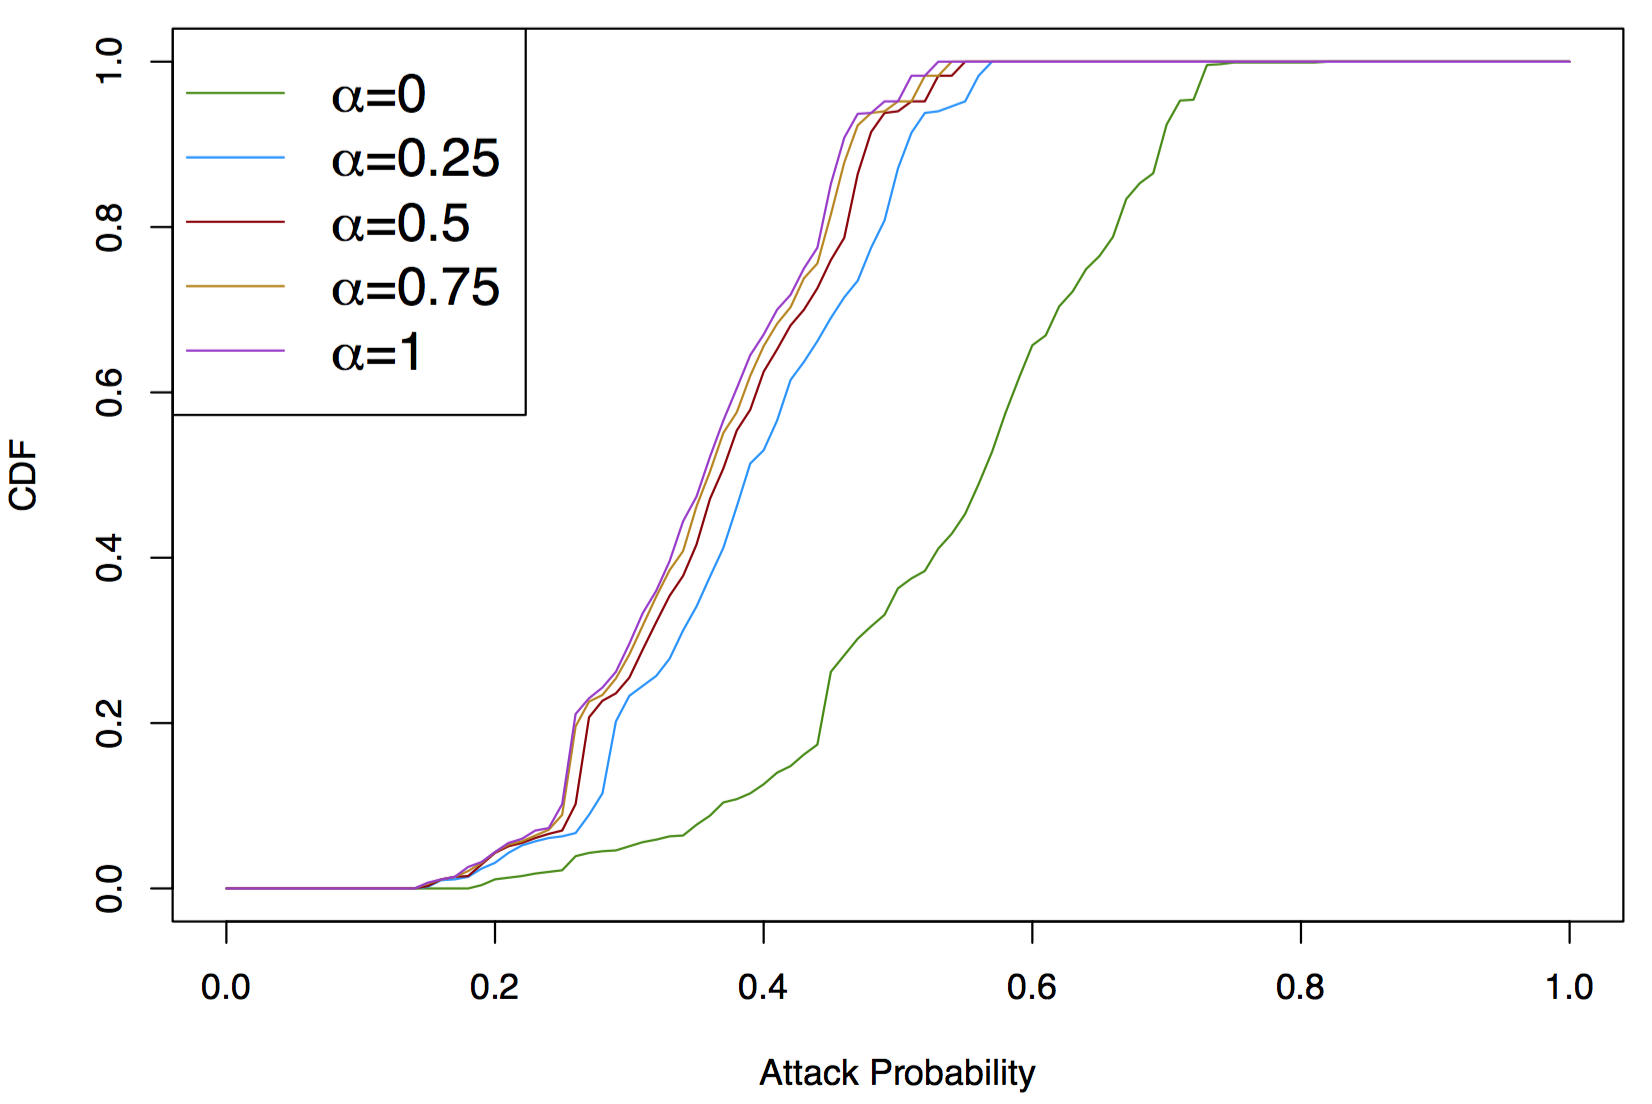
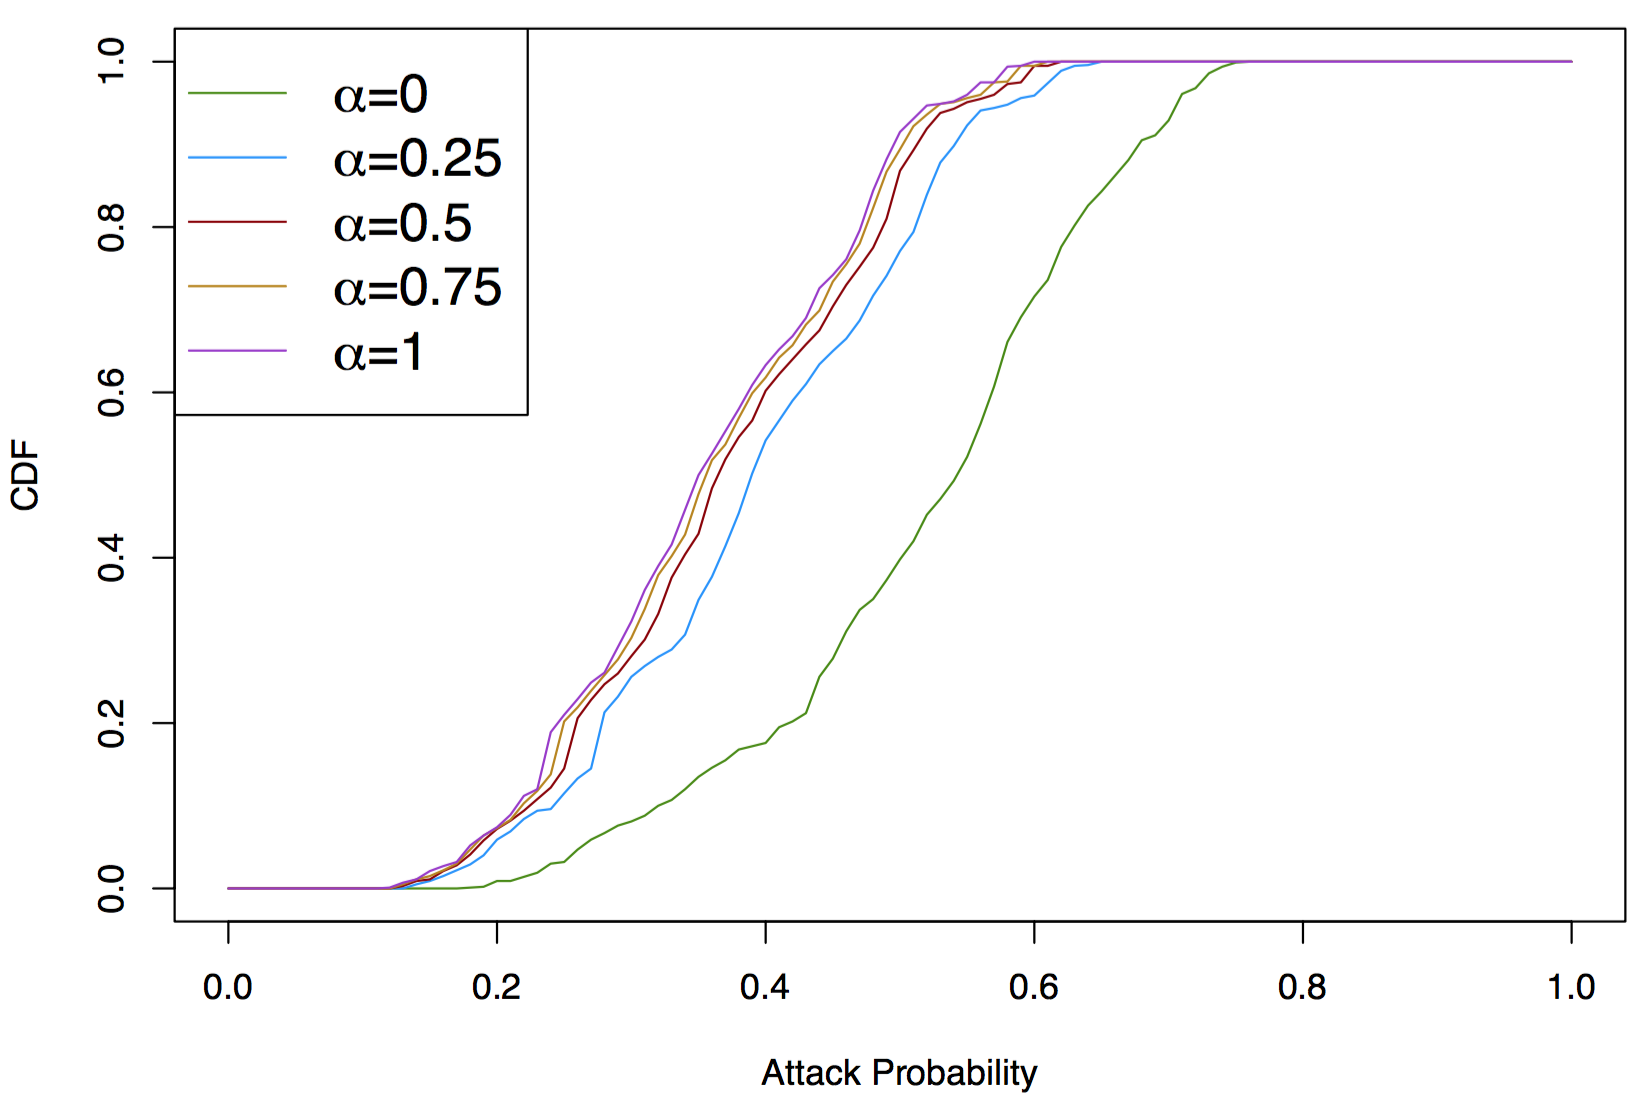
update relay selection

diff --git a/usenix/proactive.tex b/usenix/proactive.tex
@@ -1,5 +1,5 @@
 \section{Proactive Approaches}
-Proactive approaches aim at lowering the possibility of Tor users being affected by an active BGP routing attack on Tor relays. Network-level adversaries can announce a more-specific prefix to hijack the traffic between the client and the Tor guard relay; further more, the adversaries can also announce an equally-specific prefix to achieve the same goal for a portion of Tor clients on the internet. To counter these two attack strategies, we propose two methods, respectively: 1) convincing relay operators to announce the relay in a /24 prefix to defend against a more-specific prefix attack, 2) introducing a new Tor guard relay selection algorithm that minimizes the likelihood that a Tor client sees a hijacked route in the case that her guard is hijacked by an equally-specific prefix attack.
+Proactive approaches aim at lowering the possibility of Tor users being affected by an active BGP routing attack on Tor relays. Network-level adversaries can announce a more-specific prefix or an equally-specific prefix to hijack the traffic between the client and the Tor guard relay. To counter these routing attacks, we propose two methods: 1) convincing relay operators to announce the relay in a /24 prefix to defend against a more-specific prefix attack, 2) introducing a new Tor guard relay selection algorithm that minimizes the likelihood that a Tor client sees a hijacked route in the case of an equally-specific prefix attack.
 
 \subsection{Using /24 Prefixes}
 \label{subsec:24prefix}
@@ -16,14 +16,14 @@ Guard relay is at an important position that it has direct connection with the T
 \subsubsection{Design Goals}
 \begin{enumerate}
 \item \emph{Deal with the possibility of prefix hijacks.} This is the main goal of the new guard relay selection algorithm. The algorithm computes the AS resiliency against prefix hijacks of all Tor guard relays from the client source AS, and prefers the ones that have higher resiliencies, minimizing the likelihood that the client would be affected by a prefix hijack on her guard relay. 
-\item \emph{Protect the anonymity and privacy of Tor clients.} The algorithm should provide a good variance in its probabilities of selecting relays, i.e., avoid favoring certain relays much more than all other ones. Also, the algorithm should not expose the Tor clients to new attacks, such as fingerprinting attacks which might deanonymize the clients by observing their relay selection preferences. 
+\item \emph{Protect the anonymity and privacy of Tor clients.} In addition to lowering possibilities of being hijacked, the algorithm should also protect the anonymity of Tor users, i.e., variance in relay selection preferences and Tor path security. 
 \item \emph{Load balance Tor traffic.} The algorithm should incorporate relay bandwidth into selection decision and avoid causing excessive traffic congestion on low bandwidth relays. 
-\item \emph{Performance overhead.} The algorithm should have a reasonable computation overhead over the vanilla Tor algorithm when bootstrapping, and fast page load time using its constructed circuit of relays. 
+\item \emph{Performance overhead.} The algorithm should have a reasonable performance overhead over the vanilla Tor algorithm when bootstrapping, and fast page load time using its constructed circuit of relays. 
 \end{enumerate}
 
-\subsubsection{Minimize the possibility of being affected by prefix hijacks}
+\subsubsection{Deal with the possibility of prefix hijacks}
 
-Recall from Section ~\ref{hijack_methodology} that we sum up the resiliency from \emph{each} source AS to obtain the total resiliency for the Tor-related ASes. However, from the perspective of a Tor client, the client would only care about the resiliency of a Tor-related AS from where the client is located as the source AS instead of the total resiliency. Thus, we use Algorithm ~\ref{algo:calcres} to calculate resiliency $R(i)$ of each Tor-related AS $i$, from the client AS $t$. 
+In section ~\ref{hijack_methodology}, we measured AS resiliency of each Tor-related ASes based on the metrics proposed by (cite me here). The algorithm computes \emph{total} resiliency of an AS by summing individual resiliencies from each source AS. However, the Tor client would only care about \emph{one} individual resiliency to a Tor-related AS from where the client is located as the source AS. Thus, instead of computing the total resiliency, we use Algorithm ~\ref{algo:calcres} to calculate resiliency $R(i)$ of each Tor-related AS $i$, from the client AS $t$. 
 
 Tor relay selection has been bandwidth-aware and prefers high bandwidth relays. The probability of each relay $i$ being chosen is based on its bandwidth $B(i)$. Thus, in order to still provide clients with the load balancing option of Tor bandwidths, we offer a tunable parameter $\alpha$ in the relay selection algorithm combining AS resiliency $R(i)$ and bandwidth $B(i)$. Each relay $i$ will be assigned a weight as following:
 \begin{equation*}
@@ -31,32 +31,101 @@ W(i) = \alpha \times R(i) + (1 - \alpha) \times B(i)
 \end{equation*}
 Note that, when $\alpha$ is set to $0$, the relay selection becomes the same as bandwidth-only selection; while when $\alpha$ is set to $1$, the selection becomes resiliency-only selection. 
 
-\subsubsection{Protect the anonymity of clients}
+\subsubsection{Randomization is needed}
 
-If we simply select the set of guard relays based on the probability of $relay\_weight/total\_weight$, an adversary can potentially run a relay that is close enough to the Tor client, such that it has high resiliency from the client AS as the source, and thus obtains high probability of being chosen. Further more, the Tor client could also be susceptible to fingerprinting attacks due to the differences in relay selection probabilities based on AS-location of the client. An adversaries that can observe the client for a long enough time may be able to infer the AS-location of the client based on its observed relay selection choices. Thus, we need to take into account these potential vulnerabilities and protect the anonymity of clients. 
+If we simply select the set of guard relays based on the probability of $relay\_weight/total\_weight$, an adversary can potentially run a relay that is close enough to the Tor client, such that it has high resiliency from the client AS as the source, and thus obtains high probability of being chosen. Further more, the Tor client might also be susceptible to fingerprinting attacks due to the differences in relay selection probabilities based on AS-location of the client. An adversaries that can observe the client for a long enough time may be able to infer the AS-location of the client based on its observed relay selection choices. Thus, we need to take into account these potential vulnerabilities and protect the anonymity of clients. Note that, the weight of a Tor relay depends on two factors: (1) resiliency of the AS where relay is located, and (2) relay bandwidth. We would only focus on the AS resiliency part here, since it is specific to the client location whereas relay bandwidth is the same for all clients. 
 
-Instead of selecting relay directly based on its weight, we will first select a cluster of 
+Instead of assigning $R(i)$ to the relay weight  directly, we will first adjust it to $R(i)\prime$ by performing a pseudorandom sampling without replacement using algorithm proposed by Tille (cite here). We compute the inclusion probability of each relay $i$ into a sample of size $(g \cdot total\_TorASes)$ given their unequal probabilities $R(i)/\sum R(i)$, and then divide the inclusion probability by sample size $(g \cdot total\_TorASes)$ to get the probability of being chosen randomly within the sample. So the new resiliency weight becomes:
+
 \begin{equation*}
-m + \alpha \cdot g \cdot (N - m)
+R(i) \prime = \frac {\pi(i | (g \cdot N))} {g \cdot N}
 \end{equation*}
-number of relays, in which $m$ is the minimum number of relays needed (i.e., 1 for single guard and 3 for multiple guards), $N$ is the total number of relays and $g$ is a configurable parameter indicating the maximum percentage of additional relays we want to pick into the cluster. Then, we will pick the guard relay(s) at random from the cluster. Note that when $g$ is set to $0$, then no additional randomization will be performed, while if $g$ is set to $1$, all guard relays will be picked randomly regardless of bandwidth or resiliency. We will evaluate how different values of $g$ may impact the security and anonymity.
+
+in which $\pi(i | m)$ represents inclusion probability of relay $i$ given sample size $m$, and $N$ is the total number of ASes that Tor relays reside in. $g$ is a configurable parameter indicating the percentage of random sampling we want to perform in the Tor-related AS set. Note that when $g$ is set to $0$, then no random sampling will be performed, while if $g$ is set to $1$, then all relays will have the same $R(i)\prime$ into their weights.
+
+%Instead of selecting relay directly based on its weight, we will first select a cluster of 
+%\begin{equation*}
+%m + \alpha \cdot g \cdot (N - m)
+%\end{equation*}
+%number of relays, in which $m$ is the minimum number of relays needed (i.e., 1 for single guard and 3 for multiple guards), $N$ is the total number of relays and $g$ is a configurable parameter indicating the maximum percentage of additional relays we want to pick into the cluster. Then, we will pick the guard relay(s) at random from the cluster. Note that when $g$ is set to $0$, then no additional randomization will be performed, while if $g$ is set to $1$, all guard relays will be picked randomly regardless of bandwidth or resiliency. We will evaluate how different values of $g$ may impact the security and anonymity.
 
 \subsubsection{Implementation on Tor}
-Mapping the IP addresses of the Tor client and Tor relays to ASN would be necessary before we can compute AS resiliency. In order to preserve the anonymity of the Tor client and not reveal its location to outside servers or anyone who can observe the its communications, the client will perform the IP to ASN mapping locally by utilizing the Maxmind ASN database (citation here). Note that the vanilla Tor client also uses the Maxmind GeoIP database for IP to Country mapping. In addition, the client will use the AS topology database from CAIDA (citation here) for AS-level path inference in the resiliency calculation. 
+Mapping the IP addresses of the Tor client and Tor relays to ASN would be necessary before we can compute AS resiliency. In order to preserve the anonymity of the Tor client and not reveal its location to outside servers or anyone who can observe the its communications, the client will perform the IP to ASN mapping locally by utilizing the Maxmind ASN database (citation here), which can be included in the Tor download package. Note that the vanilla Tor client uses the Maxmind GeoIP database for IP to Country mapping, which is already included in the Tor package as well. In addition, the client will use the AS topology database from CAIDA (citation here) for AS-level path inference in the resiliency calculation. 
 
 If the Tor client specifies in the torrc configuration file that the AS resiliency-aware guard relay selection is preferred, and supplies an $\alpha$ value as the tunable parameter, the following procedure will be invoked:
 
 \begin{enumerate}
-\item If the Maxmind ASN file and AS topology file have not been cached, the Tor client will download the two file from Maxmind and CAIDA, respectively, and save them in the local data directory. 
-\item The Tor client will perform IP to ASN mapping, and compute the AS resiliency of all candidate relays from the client AS as the source AS. 
-\item The Tor client will compute a weight for each candidate relay using formula $W(i) = \alpha \times R(i) + (1 - \alpha) \times B(i)$. 
-\item The Tor client will select a cluster of $m + \alpha \cdot g \cdot (N - m)$ relays based on their weights, and then randomly select the guard relay(s) from the cluster. 
+\item If the Maxmind ASN file and AS topology file have not been downloaded, the Tor client will download the two files from Maxmind and CAIDA, respectively, and save them in the local data directory. 
+\item The Tor client will perform IP to ASN mapping, and compute the AS resiliency $R(i)$ of all candidate relays from the client AS as the source AS. 
+\item The Tor client will perform random sampling on all ASes containing candidate relays and adjust the resiliency value to $R(i)\prime$.
+\item The Tor client will compute a weight for each candidate relay using formula $W(i) = \alpha \times R(i) \prime + (1 - \alpha) \times B(i)$. 
+%\item The Tor client will select a cluster of $m + \alpha \cdot g \cdot (N - m)$ relays based on their weights, and then randomly select the guard relay(s) from the cluster. 
 \item The Tor client will proceed with the path selection. The remaining part of the circuit construction process stays the same as it is in Tor. 
 \end{enumerate}
 
 \subsection{Relay Selection Evaluation}
 
-We evaluate the AS resilience based relay selection from performance and security perspectives. 
+\subsubsection{Security Evaluation}
+
+\textbf{Probability of being affected by a hijack attack} is evaluated by
+ $\sum Pr(client\_affected | hijacked(i)) * Pr(choose(i))$ for all candidate relay $i$. We first evaluate it without random sampling, for five values of $\alpha=\{0, 0.25, 0.5, 0.75, 1\}$ with $1000$ randomly selected ASes as source AS and Tor consensus data from January 2016. Figure ~\ref{fig_attack} shows the result. 
+
+\begin{figure}[ht!]
+\centering
+\includegraphics[width=80mm]{figure/attack}
+\caption{Attack Probability with different $\alpha$ values \label{fig_attack}}
+\end{figure}
+
+We can see that $\alpha=1$ has the lowest probability of being affected by an attack, while its advantage to other $\alpha$ values is marginal. All of them have much lower probability compared to bandwidth-only selection. 
+
+We then evaluate it with random sampling of $g=10\%$ for $\alpha=\{0.25, 0.5\}$. Figure ~\ref{fig_attack_random} shows the result. Although there is a small increase in attack probability after the random sampling, it is still much lower than Vanilla Tor ($\alpha=0$). 
+
+\begin{figure}[ht!]
+\centering
+\includegraphics[width=80mm]{figure/attack_randomize}
+\caption{Attack Probability with $g=10\%$ sampling \label{fig_attack_random}}
+\end{figure}
+
+\textbf{Relay selection variance} in entropy can be evaluated using Gini coefficient as the entropy evaluation metric, as it has been used in previous work to measure anonymity selection in Tor ~\cite{akhoondi2012lastor}. We first evaluate without  random sampling, for five values of $\alpha: \{0, 0.25, 0.5, 0.75, 1\}$ with $1000$ randomly selected ASes as source AS and Tor consensus data from January 2016. Figure ~\ref{fig_gini} shows the result. The green line to the right is when $\alpha = 0$, which is solely based on bandwidth resulting in a Gini coefficient of $0.51$ for all source ASes. The Gini coefficients for the other four $\alpha$ values which involve resilience-based selection are much lower than bandwidth-based selection, meaning that there is higher entropy and lower skew in probabilities of selecting any particular relay.
+
+\begin{figure}[ht!]
+\centering
+\includegraphics[width=80mm]{figure/gini_relay_variance}
+\caption{Gini coefficients for relay variance given a client \label{fig_gini}}
+\end{figure}
+
+\begin{figure}[ht!]
+\centering
+\includegraphics[width=80mm]{figure/gini_client_variance}
+\caption{Gini coefficients for client variance given a relay \label{fig_gini_client}}
+\end{figure}
+
+Figure ~\ref{fig_gini_client} shows the Gini coefficient for the \emph{client} variance - probabilities of different Tor clients choosing a particular relay. The top line is bandwidth-only selection when $\alpha = 0$, and thus the probabilities of different clients choosing a relay are the same, resulting in Gini coefficient$=0$ for all relays. With resiliency-based selection, the skews in probabilities are higher. When $\alpha = 1$ (resiliency-only), $80\%$ of the relays have coefficients $> 0.4$. This skew in probability might be exploited by adversaries who can observe the client over a period of time to infer client locations given the differences in relay selection.
+
+\begin{figure}[ht!]
+\centering
+\includegraphics[width=80mm]{figure/randomize_client_gini}
+\caption{Gini coefficients for client variance with $g=10\%$ sampling \label{fig_gini_client_random}}
+\end{figure}
+
+We then evaluate the Gini coefficient for client variance again with $g=10\%$ random sampling. Note that since $\alpha=\{0.75,1\}$ does not have a significant advantage in attack resiliency over $\alpha=\{0.25,0.5\}$ while resulting in higher skew in probabilities, so we focus on evaluating the later here. Figure ~\ref{fig_gini_client_random} shows that by performing $10\%$ random sampling, when $\alpha=0.25$, $80\%$ of the relays have coefficients reduced to $< 0.28$. Although this may still pose some vulnerability to client fingerprinting, we argue that since Tor clients only select guard relays at bootstrapping time, and would then use the same guard relays over several months or until the relays become unavailable, so fingerprinting the client could not be done in a reasonably short time, especially given the low variance of probabilities, as shown above.\\
+
+
+
+\textbf{Formal anonymity assessment} of the relay selection algorithm is performed using MATor, a framework for assessing the degree of anonymity in Tor with rigorously proved anonymity bounds(citation here). We implemented our new relay selection algorithm into MATor source code, and evaluated in comparison with vanilla Tor. We used configuration of multiplicative factor$\epsilon=1.3$, ports setting of HTTPS+IRC vs. HTTPS, and for compromised nodes $0.5\%$ of total nodes. We evaluated using Tor consensus files from 2/1/2016 - 2/9/2016 and server descriptor from February 2016. Figure ~\ref{fig_mator} shows the result. 
+
+\begin{figure}[ht!]
+\centering
+\includegraphics[width=80mm]{figure/mator}
+\caption{MATor 2/1/2016 - 2/9/2016 (Ignore the numbers on x axis. I need to reformat this plot.) \label{fig_mator}}
+\end{figure}
+
+Our new guard relay selection has better (lower) anonymity bound on sender anonymity and relationship anonymity compared to current Tor path selection. Since we do not alter selection for exit relay, so recipient anonymity remains the same as vanilla Tor. 
+
+
+%However, the variance in relay selection probability \emph{across} different source ASes is bigger than bandwidth-only: when $\alpha = 0$, all sources ASes have the same gini coefficient of $0.607$, while for other $\alpha$ values, the gini coefficient could vary from approximately $0.2$ to $0.4$, depending on the source AS. 
+
+
 
 \subsubsection{Performance Evaluation}
 
@@ -68,29 +137,13 @@ First, we evaluate the runtime of the AS resilience calculation given a source A
 \caption{Runtime of AS resilience calculation from a given source AS \label{fig_ascal}}
 \end{figure}
 
-[NOTE: more evaluation here on Shadow and real world run]
-
-\subsubsection{Security Evaluation}
-
-\textbf{Relay selection variance} in entropy can be evaluated using Gini coefficient as the entropy evaluation metric, as it has been used in previous work to measure anonymity selection in Tor ~\cite{akhoondi2012lastor}. We first evaluate it without doing the clustering, for five values of $\alpha: \{0, 0.25, 0.5, 0.75, 1\}$ with $1000$ randomly selected ASes as source AS. Note that when $\alpha = 0$, it is equivalent to bandwidth-based selection. Figure ~\ref{fig_gini} shows the result. The green line to the right is when $\alpha = 0$, so it's solely based on bandwidth resulting in a Gini coefficient of $0.607$ for all source ASes. 
+Next, we installed our new Tor client on $26$ Planetlab nodes located in different ASes, and performed page loads of Alexa top 100 websites. We compared the performance of $\alpha={0.25,0.5}$ with $g=10\%$ random sampling against vanilla Tor. Figure ~\ref{fig_pageload} shows the page load time, and all have almost the same performance. This shows that we do not have any performance loss by using our new relay selection algorithm. 
 
 \begin{figure}[ht!]
 \centering
-\includegraphics[width=80mm]{figure/gini}
-\caption{Gini coefficients with different $\alpha$ values \label{fig_gini}}
+\includegraphics[width=80mm]{figure/pageloadtime}
+\caption{Page load time of Alexa top 100 sites \label{fig_pageload}}
 \end{figure}
 
-The Gini coefficients for the other four $\alpha$ values which involve resilience-based selection are much lower than bandwidth-based selection, meaning that there is higher entropy and lower skew in probabilities of selecting any particular relay. However, the variance in relay selection probability \emph{across} different source ASes is bigger than bandwidth-only: when $\alpha = 0$, all sources ASes have the same gini coefficient of $0.607$, while for other $\alpha$ values, the gini coefficient could vary from approximately $0.2$ to $0.4$, depending on the source AS. 
 
-[NOTE: more evaluation on effect of g here]\\
-
-\textbf{Probability of being affected by a hijack attack} is evaluated by the sum of \emph{Probability(choose relay $i$) * Probability(client is affected if relay $i$ is hijacked)} for all candidate relay $i$. Again, we first evaluate it without doing the clustering, for five values of $\alpha: \{0, 0.25, 0.5, 0.75, 1\}$ with $1000$ randomly selected ASes as source AS. Figure ~\ref{fig_attack} shows the result. 
-
-\begin{figure}[ht!]
-\centering
-\includegraphics[width=80mm]{figure/attack}
-\caption{Attack Probability with different $\alpha$ values \label{fig_attack}}
-\end{figure}
-
-We can see that $\alpha=1$ has the lowest probability of being affected by an attack, while it's pretty close to other $\alpha$ values. All of them have much lower probability compared to bandwidth-only selection. 
 
